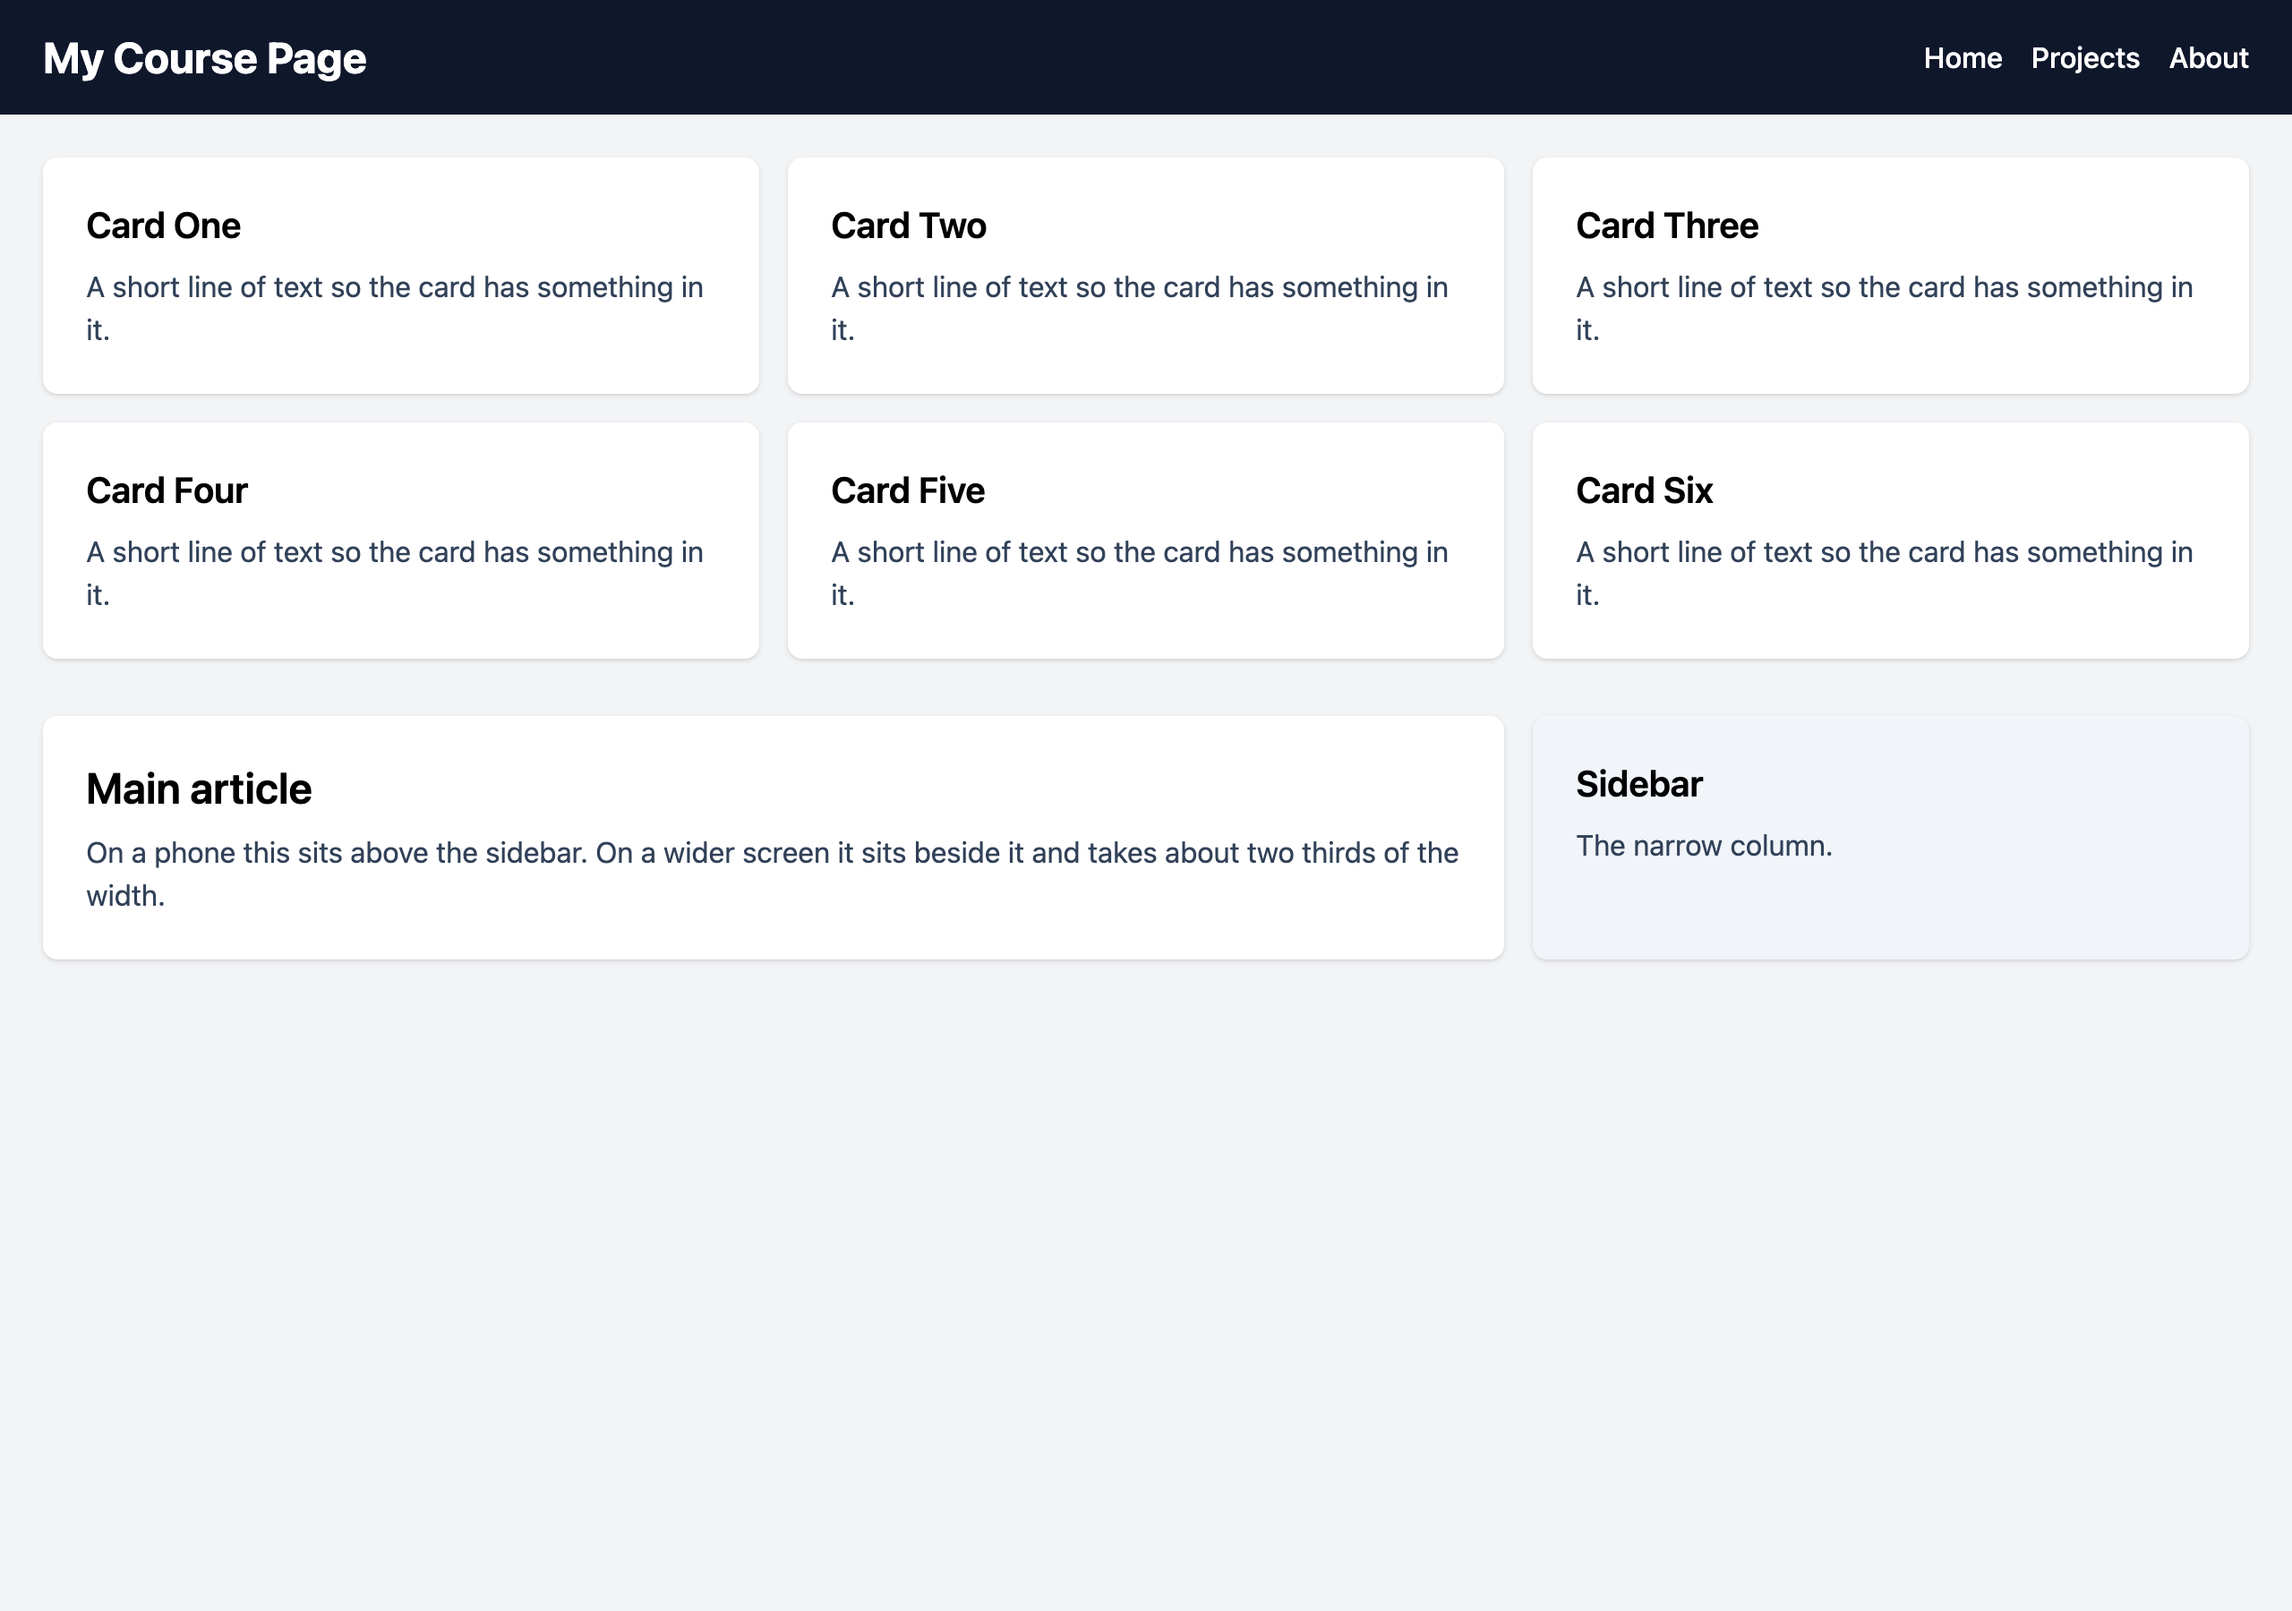
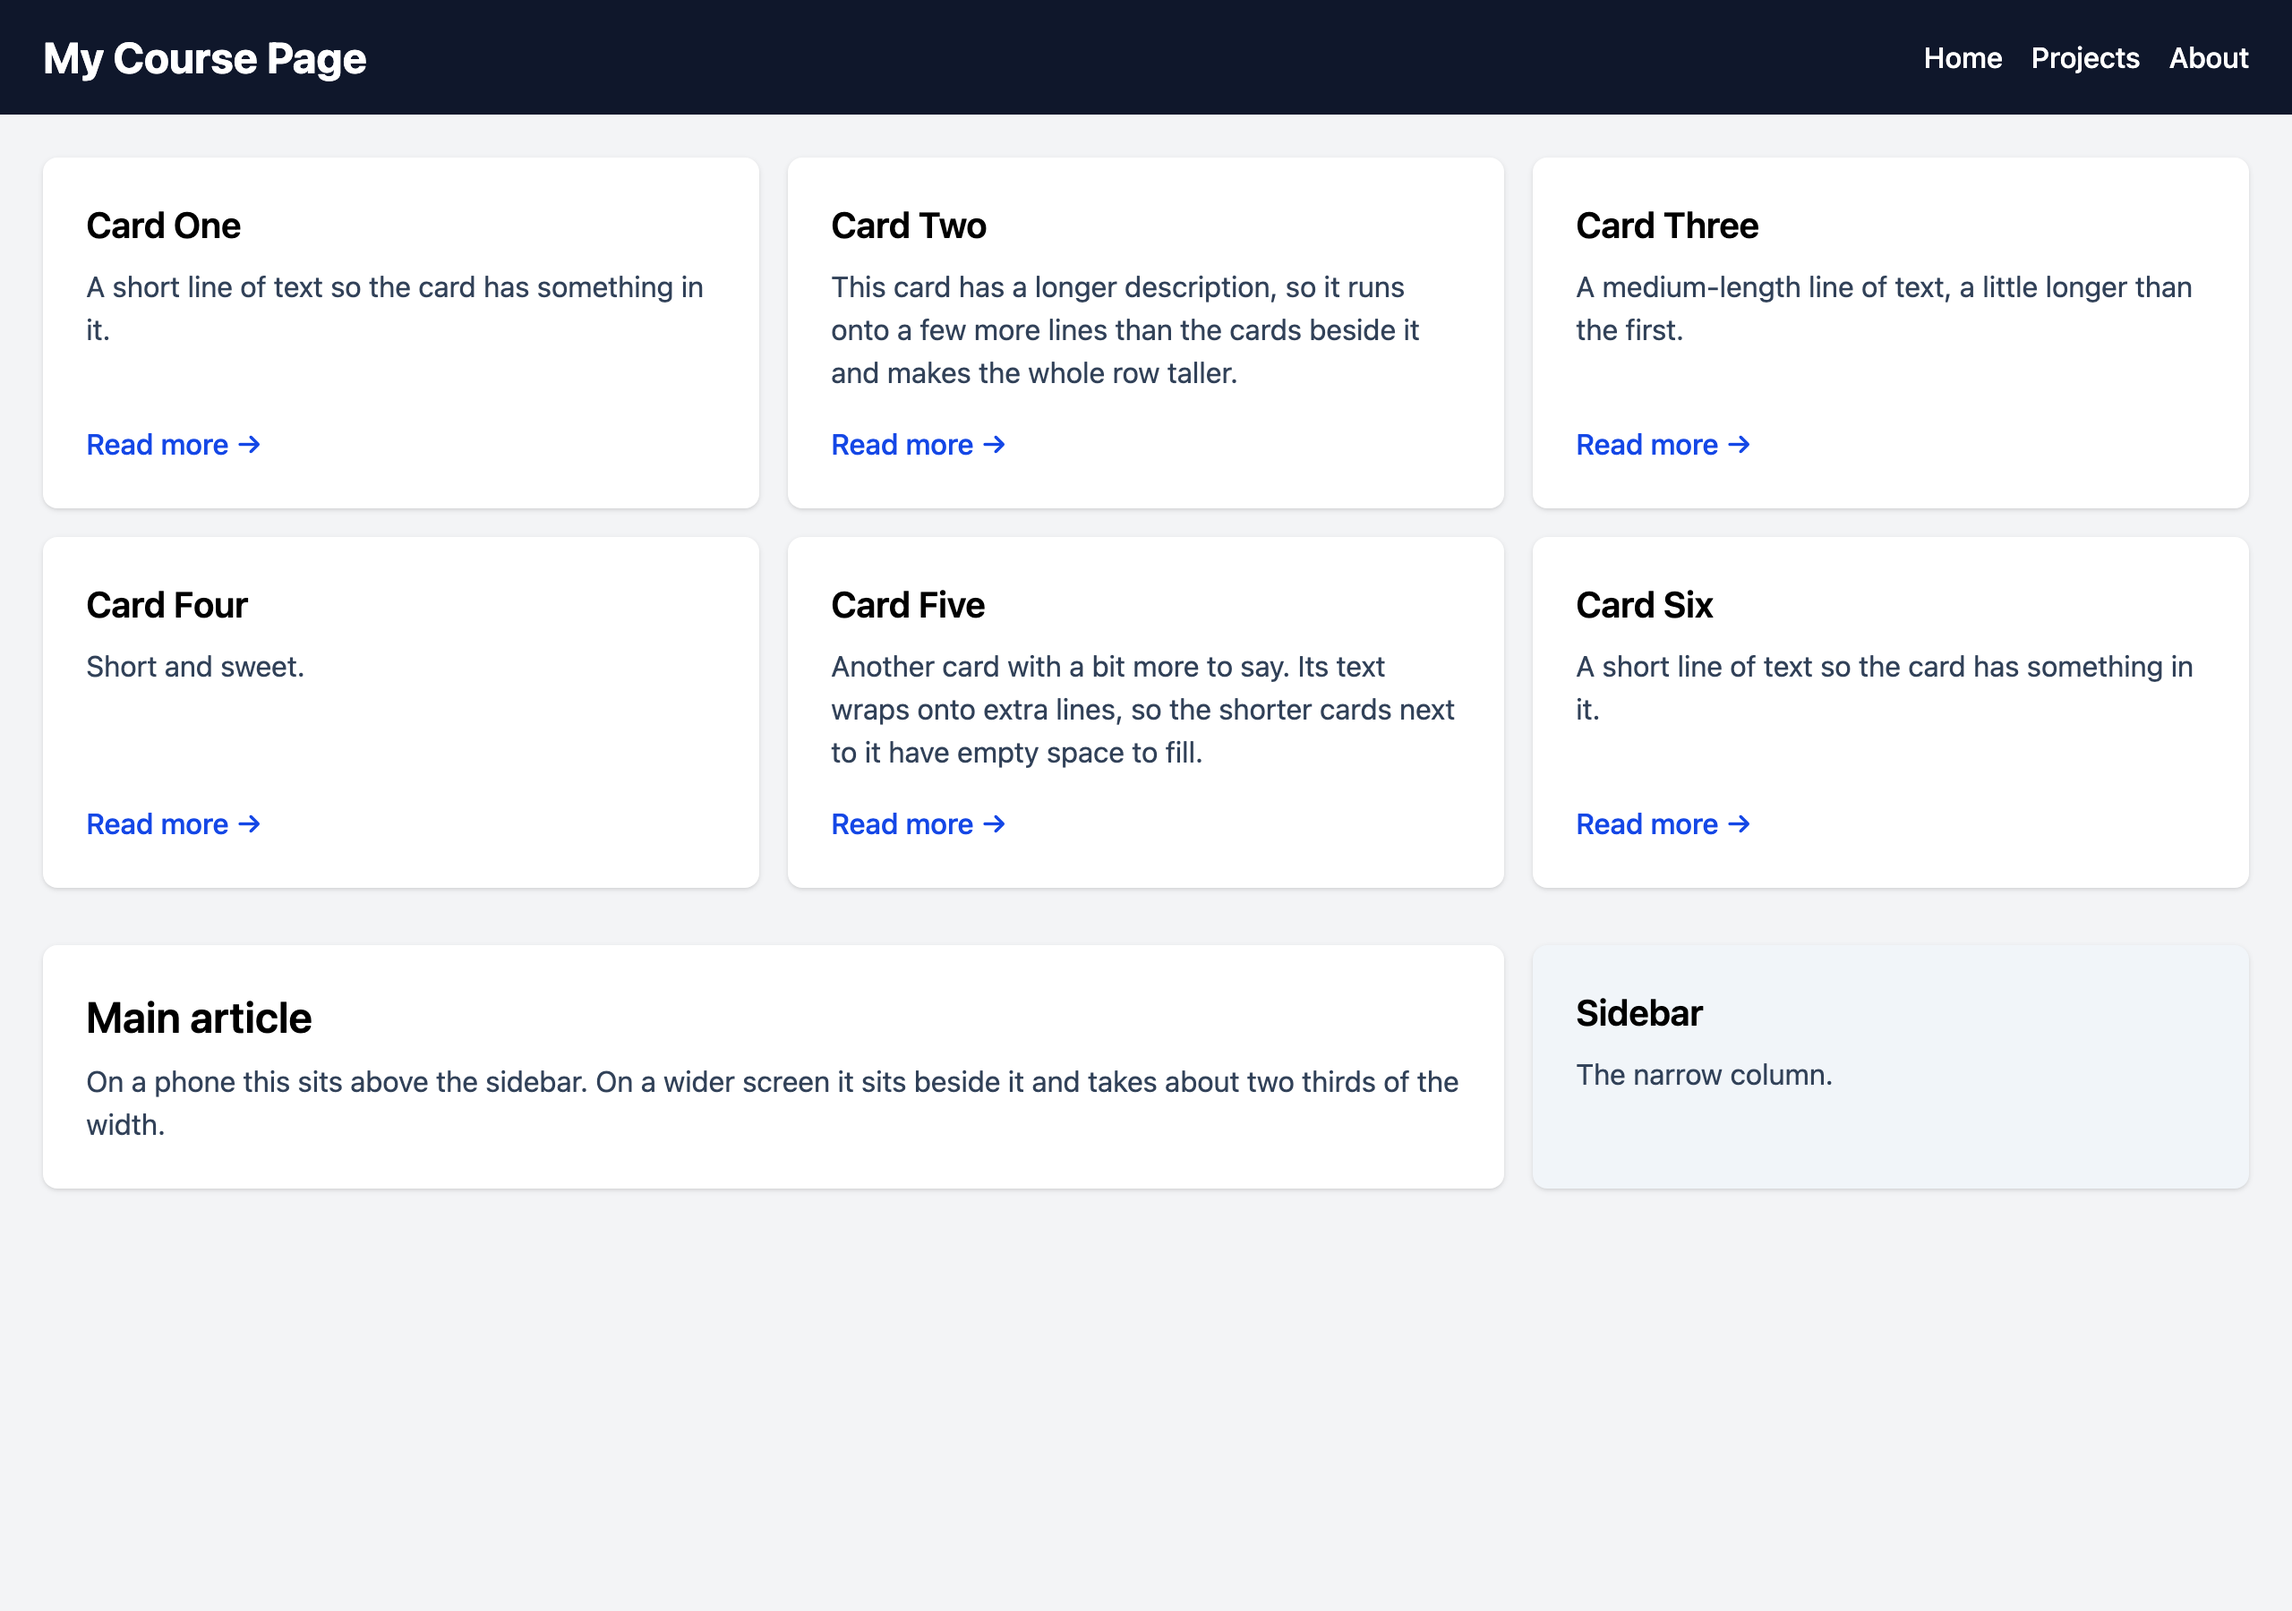
HW3: make Task 4 flex-1 do visible work, stack header on phones

diff --git a/homework/hw3/index.html b/homework/hw3/index.html
@@ -12,9 +12,9 @@
        TASK 1 — the header. Make this a flex row:
        title on the left, the three links together on the right.
        ============================================================ -->
-  <header class="flex items-center justify-between bg-slate-900 px-6 py-4 text-white">
+  <header class="flex flex-col items-center justify-between gap-2 bg-slate-900 px-6 py-4 text-white sm:flex-row">
     <h1 class="text-2xl font-bold">My Course Page</h1>
-    <nav class="flex flex-1 justify-end gap-4">
+    <nav class="flex gap-4">
       <a href="#" class="font-medium hover:underline">Home</a>
       <a href="#" class="font-medium hover:underline">Projects</a>
       <a href="#" class="font-medium hover:underline">About</a>
@@ -28,29 +28,35 @@
          One column on a phone, two at md, three at lg.
          ========================================================== -->
     <section id="cards" class="grid grid-cols-1 gap-4 md:grid-cols-2 lg:grid-cols-3">
-      <div class="rounded-lg bg-white p-6 shadow">
+      <div class="flex flex-col rounded-lg bg-white p-6 shadow">
         <h2 class="mb-2 text-xl font-semibold">Card One</h2>
-        <p class="text-slate-700">A short line of text so the card has something in it.</p>
+        <p class="flex-1 text-slate-700">A short line of text so the card has something in it.</p>
+        <a href="#" class="mt-4 font-medium text-blue-700 hover:underline">Read more →</a>
       </div>
-      <div class="rounded-lg bg-white p-6 shadow">
+      <div class="flex flex-col rounded-lg bg-white p-6 shadow">
         <h2 class="mb-2 text-xl font-semibold">Card Two</h2>
-        <p class="text-slate-700">A short line of text so the card has something in it.</p>
+        <p class="flex-1 text-slate-700">This card has a longer description, so it runs onto a few more lines than the cards beside it and makes the whole row taller.</p>
+        <a href="#" class="mt-4 font-medium text-blue-700 hover:underline">Read more →</a>
       </div>
-      <div class="rounded-lg bg-white p-6 shadow">
+      <div class="flex flex-col rounded-lg bg-white p-6 shadow">
         <h2 class="mb-2 text-xl font-semibold">Card Three</h2>
-        <p class="text-slate-700">A short line of text so the card has something in it.</p>
+        <p class="flex-1 text-slate-700">A medium-length line of text, a little longer than the first.</p>
+        <a href="#" class="mt-4 font-medium text-blue-700 hover:underline">Read more →</a>
       </div>
-      <div class="rounded-lg bg-white p-6 shadow">
+      <div class="flex flex-col rounded-lg bg-white p-6 shadow">
         <h2 class="mb-2 text-xl font-semibold">Card Four</h2>
-        <p class="text-slate-700">A short line of text so the card has something in it.</p>
+        <p class="flex-1 text-slate-700">Short and sweet.</p>
+        <a href="#" class="mt-4 font-medium text-blue-700 hover:underline">Read more →</a>
       </div>
-      <div class="rounded-lg bg-white p-6 shadow">
+      <div class="flex flex-col rounded-lg bg-white p-6 shadow">
         <h2 class="mb-2 text-xl font-semibold">Card Five</h2>
-        <p class="text-slate-700">A short line of text so the card has something in it.</p>
+        <p class="flex-1 text-slate-700">Another card with a bit more to say. Its text wraps onto extra lines, so the shorter cards next to it have empty space to fill.</p>
+        <a href="#" class="mt-4 font-medium text-blue-700 hover:underline">Read more →</a>
       </div>
-      <div class="rounded-lg bg-white p-6 shadow">
+      <div class="flex flex-col rounded-lg bg-white p-6 shadow">
         <h2 class="mb-2 text-xl font-semibold">Card Six</h2>
-        <p class="text-slate-700">A short line of text so the card has something in it.</p>
+        <p class="flex-1 text-slate-700">A short line of text so the card has something in it.</p>
+        <a href="#" class="mt-4 font-medium text-blue-700 hover:underline">Read more →</a>
       </div>
     </section>
 

diff --git a/homework/hw3/WRITEUP.md b/homework/hw3/WRITEUP.md
@@ -53,20 +53,20 @@ What was going on in it?
 Which class did you pick, and where in `index.html` did you use it?
 
 > Class: `flex-1`
-> Where: on the `<nav>` in the header
+> Where: on the `<p>` description inside each of the six cards in `#cards` (each card is now `flex flex-col` with a "Read more →" link at the bottom)
 
 What does it do, and what CSS does it compile to? (The docs page has both — the second
 one is in the table.)
 
-> `flex-1` tells a flex item to grow and take up any leftover space in the flex container. In Tailwind it compiles roughly to `flex: 1 1 0%;`, which means the nav item expands to fill the available width while still shrinking and growing as needed.
+> `flex-1` tells a flex item to grow and take up whatever space is left over in its flex container. It compiles to `flex: 1;`, which means grow 1, shrink 1, and start from a basis of 0, so the item absorbs all the leftover space.
 
 Why there? What would go wrong if you removed it?
 
-> I used it on the nav so the links stayed pinned to the right side while still letting the nav stretch within the header. If I removed it, the nav would no longer fill the remaining space naturally, and the right alignment would feel less intentional and less balanced.
+> The grid makes every card in a row the same height, but the cards have different amounts of text, so the shorter ones have empty space. With `flex-1` on the description, the paragraph soaks up that space and pushes the "Read more" link to the bottom, so the links line up across the row. If I remove it, each link sits right under its own text and the links end up at three different heights in the same row.
 
 Anything you tried first that did not work?
 
-> I first tried adding `justify-end` to the header itself, but that did not work as cleanly because it affected the entire header instead of just the navigation group. Switching to `flex-1` on the nav gave the correct layout and made the effect visible in the page.
+> First I put `flex-1` on the `<nav>` in the header. The test passed, but nothing visibly changed when I removed it: the header's `justify-between` was already pushing the links to the right, so `flex-1` only made the nav's invisible box wider. I moved it to the cards, where removing it visibly breaks the alignment.
 
 ---
 
@@ -81,5 +81,5 @@ say which one, what you asked it for, and what you did with the answer. If it ga
 something that did not work, say so — that is worth as much as a success. If you did not
 use one, write "No AI used."
 
-> I used GitHub Copilot to help interpret the assignment instructions and to check which Tailwind classes matched the required flexbox and grid behavior. I verified every suggestion against the course README and the browser test failures before using it in the final file.
+> I used GitHub Copilot to help interpret the assignment instructions and to check which Tailwind classes matched the required flexbox and grid behavior. I verified every suggestion against the course README and the browser test failures before using it in the final file. After grading feedback, I used Claude (Claude Code) to review my submission. It pointed out that removing my `flex-1` from the nav did not visibly change the page, and it helped me move it into the cards, stack the header on phones with `flex-col sm:flex-row`, rerun the tests, and retake the screenshots.
 
